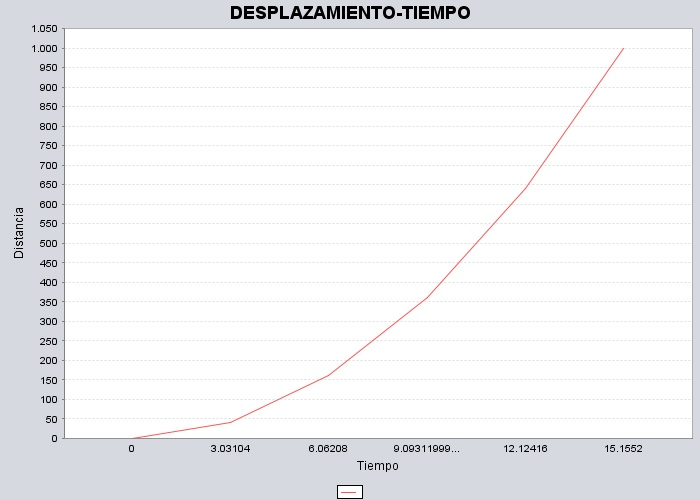
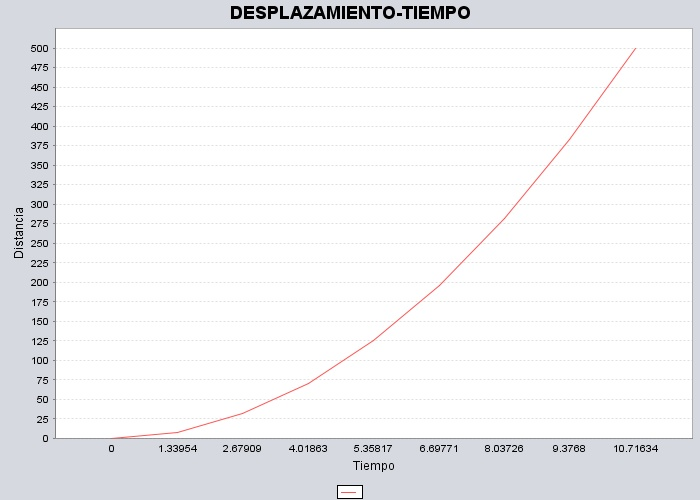
2 graficas lamborginhi

diff --git a/ProyectoMSY1/src/Principal/Ventana_principal.java b/ProyectoMSY1/src/Principal/Ventana_principal.java
@@ -34,7 +34,7 @@ public class Ventana_principal extends javax.swing.JFrame {
      double tvelmax=0;
      double dvelmax=0;
      double trecorrido=0;
-     static double x1,x2,x3,x4,x5,y1,y2,y3,y4,y5,v1,v2,v3,v4,v5,x0,y0,v0;
+     static double x1,x2,x3,x4,x5,x6,x7,x8,y1,y2,y3,y4,y5,y6,y7,y8,v1,v2,v3,v4,v5,v6,v7,v8;
      
      
      //probicional tiene que ser una lista
@@ -875,11 +875,14 @@ public class Ventana_principal extends javax.swing.JFrame {
     
        //**************************GRAFICA DE DESPLAZAMIENTO****************************************
        //coordenadas tiempo eje x
-       x1=trecorrido/5;
+       x1=trecorrido/8;
        x2=x1+x1;
        x3=x2+x1;
        x4=x3+x1;
        x5=x4+x1;
+       x6=x5+x1;
+       x7=x6+x1;
+       x8=x7+x1;
        
        //coordenadas desplazamiento eje y
        y1 = ac*Math.pow(x1,2)/2;
@@ -887,19 +890,62 @@ public class Ventana_principal extends javax.swing.JFrame {
        y3 = ac*Math.pow(x3,2)/2;
        y4 = ac*Math.pow(x4,2)/2;
        y5 = ac*Math.pow(x5,2)/2;
+       y6 = ac*Math.pow(x6,2)/2;
+       y7 = ac*Math.pow(x7,2)/2;
+       y8 = ac*Math.pow(x8,2)/2;
        
-       System.out.println(x1+" , "+y1);
-       System.out.println(x2+" , "+y2);
-       System.out.println(x3+" , "+y3);
-       System.out.println(x4+" , "+y4);
-       System.out.println(x5+" , "+y5);
-       Graficar.graph("Distancia","DESPLAZAMIENTO-TIEMPO",x1,x2,x3,x4,x5,y1,y2,y3,y4,y5,"Desplazamiento_Lamborginhi");
+       x1 = Math.round(x1 * factor) / factor;
+       x2 = Math.round(x2 * factor) / factor;
+       x3 = Math.round(x3 * factor) / factor;
+       x4 = Math.round(x4 * factor) / factor;
+       x5 = Math.round(x5 * factor) / factor;
+       x6 = Math.round(x6 * factor) / factor;
+       x7 = Math.round(x7 * factor) / factor;
+       x8 = Math.round(x8 * factor) / factor;
+       
+       
+       Graficar.graph("Distancia","DESPLAZAMIENTO-TIEMPO",x1,x2,x3,x4,x5,x6,x7,x8,y1,y2,y3,y4,y5,y6,y7,y8,"Desplazamiento_Lamborginhi");
        
       
        //**************************GRAFICA DE VELOCIDAD*********************************
        //coordenadas velocidad eje y
-      
+       v1 = ac*x1;
+       if (v1>(Datos_estaticos.L_Velocidad_max*1000/3600)){
+           v1=Datos_estaticos.L_Velocidad_max*1000/3600;
+       }
+       v2 = ac*x2;
+       if (v2>(Datos_estaticos.L_Velocidad_max*1000/3600)){
+           v2=Datos_estaticos.L_Velocidad_max*1000/3600;
+       }
+       v3 = ac*x3;
+       if (v3>(Datos_estaticos.L_Velocidad_max*1000/3600)){
+           v3=Datos_estaticos.L_Velocidad_max*1000/3600;
+       }
+       v4 = ac*x4;
+       if (v4>(Datos_estaticos.L_Velocidad_max*1000/3600)){
+           v4=Datos_estaticos.L_Velocidad_max*1000/3600;
+       }
+       v5 = ac*x5;
+       if (v5>(Datos_estaticos.L_Velocidad_max*1000/3600)){
+           v5=Datos_estaticos.L_Velocidad_max*1000/3600;
+       }
        
+       v6 = ac*x6;
+       if (v6>(Datos_estaticos.L_Velocidad_max*1000/3600)){
+           v6=Datos_estaticos.L_Velocidad_max*1000/3600;
+       }
+       
+        v7 = ac*x7;
+       if (v7>(Datos_estaticos.L_Velocidad_max*1000/3600)){
+           v7=Datos_estaticos.L_Velocidad_max*1000/3600;
+       }
+       
+        v8 = ac*x8;
+       if (v8>(Datos_estaticos.L_Velocidad_max*1000/3600)){
+           v8=Datos_estaticos.L_Velocidad_max*1000/3600;
+       }
+       
+       Graficar.graph("Distancia","VELOCIDAD-TIEMPO",x1,x2,x3,x4,x5,x6,x7,x8,v1,v2,v3,v4,v5,v6,v7,v8,"Velocidad_Lamborginhi");
        
        }
     
@@ -989,7 +1035,16 @@ public class Ventana_principal extends javax.swing.JFrame {
        
        //se agrega la fila a la tabla
        modelo1.addRow(new Object[]{"McLaren",ac+" m/s^2",df+" m",vf+" m/s",tvelmax+" s",dvelmax+" m",trecorrido+" s"});
-       }
+       
+        
+        
+        
+        
+        }
+        
+        
+        
+        
        
        //***********************************************FORD MUSTANG****************************************
        

diff --git a/ProyectoMSY1/src/Principal/Graficar.java b/ProyectoMSY1/src/Principal/Graficar.java
@@ -17,15 +17,20 @@ import org.jfree.chart.plot.*;
 import java.io.*;
 import org.jfree.data.category.DefaultCategoryDataset;
 public class Graficar {
-public  static void graph (String ejey,String namegrafico,double x1,double x2,double x3,double x4,double x5, double y1,double y2, double y3,double y4, double y5,String auto) {
-//Create a simple XY chart
+public  static void graph (String ejey,String namegrafico,double x1,double x2,double x3,double x4,double x5,double x6,double x7, double x8, 
+        double y1,double y2, double y3,double y4, double y5,double y6,double y7, double y8,String auto) 
+{
+//Create a simple chart
 DefaultCategoryDataset line_chart_dataset = new DefaultCategoryDataset();
         line_chart_dataset.addValue(0, "", "0");
         line_chart_dataset.addValue(y1, "", String.valueOf(x1));
         line_chart_dataset.addValue(y2, "", String.valueOf(x2));
         line_chart_dataset.addValue(y3, "", String.valueOf(x3));
         line_chart_dataset.addValue(y4, "", String.valueOf(x4)); 
-        line_chart_dataset.addValue(y5, "", String.valueOf(x5));   
+        line_chart_dataset.addValue(y5, "", String.valueOf(x5));  
+        line_chart_dataset.addValue(y6, "", String.valueOf(x6));   
+        line_chart_dataset.addValue(y7, "", String.valueOf(x7));   
+        line_chart_dataset.addValue(y8, "", String.valueOf(x8));   
 //Generate the graph
 //JFreeChart chart = ChartFactory.createXYLineChart("Crecimiento Ubuntu", // Title
 JFreeChart chart=ChartFactory.createLineChart(namegrafico,
